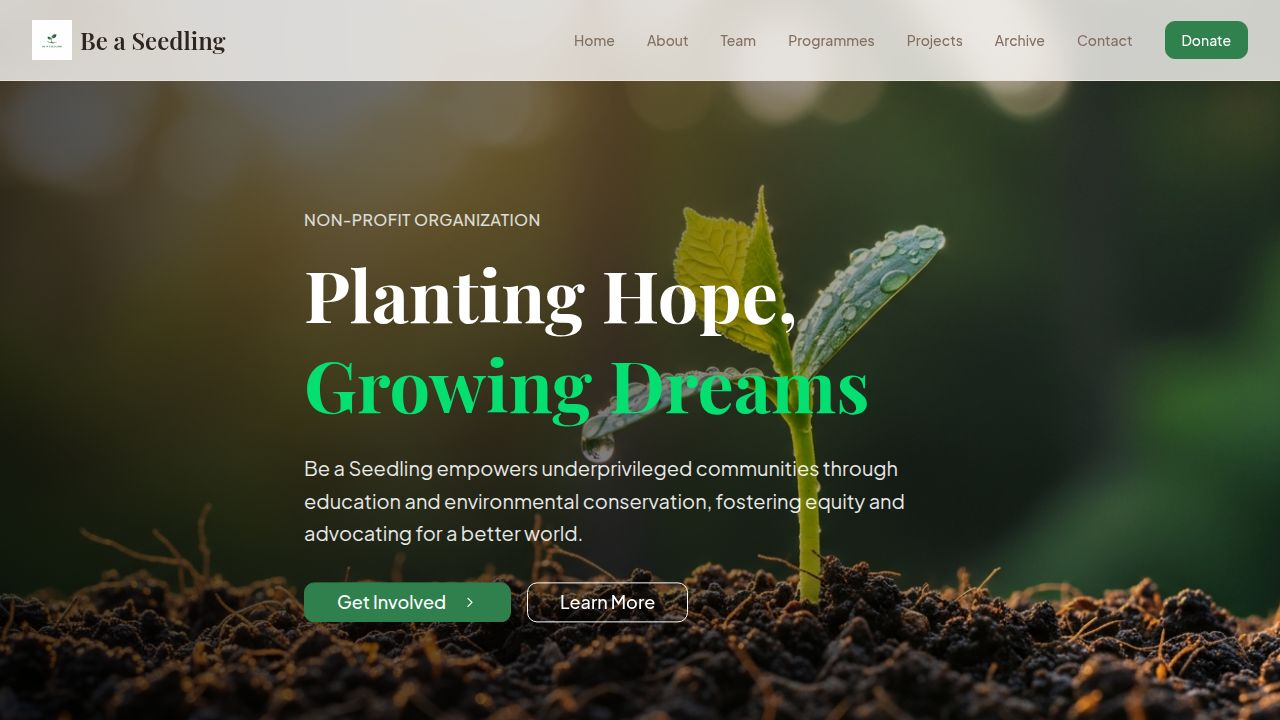
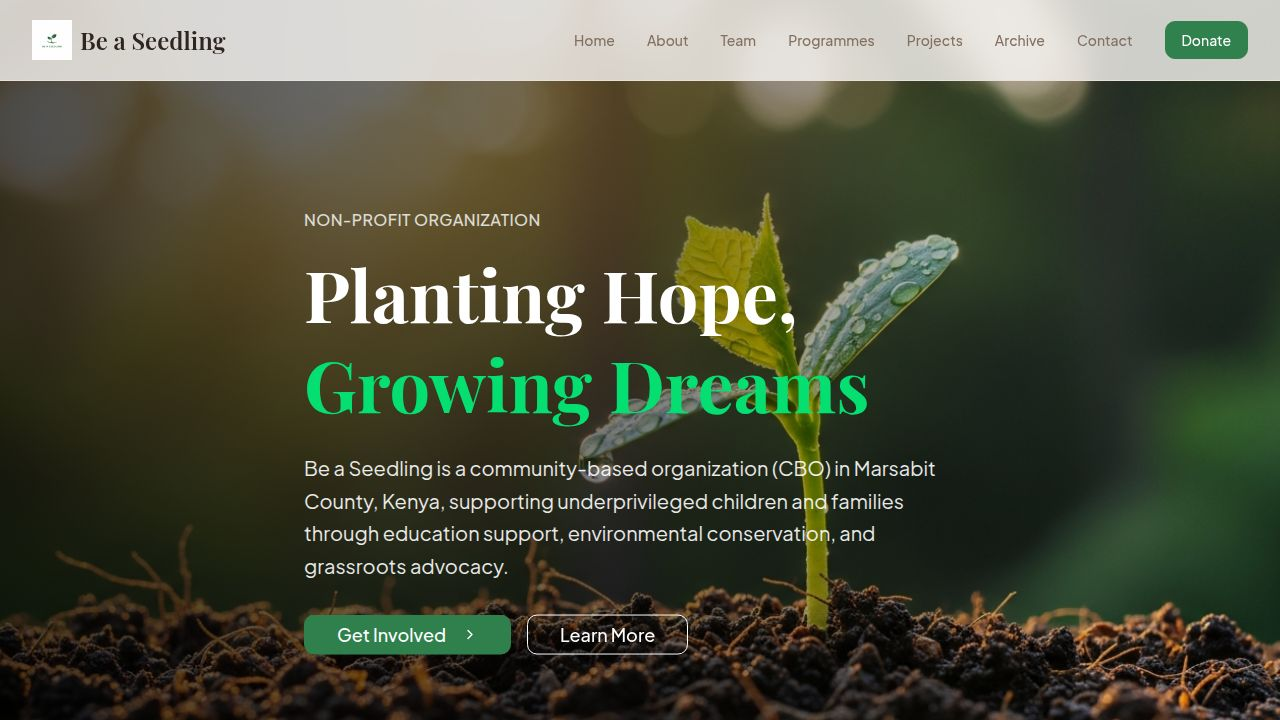
Update website content to include location-specific details and community focus
Refactor home page content in `home.tsx` to incorporate "Marsabit County, Kenya" and emphasize community-based organization (CBO) initiatives, including education support, environmental conservation, and advocacy.

Replit-Commit-Author: Agent
Replit-Commit-Session-Id: 5153b6c9-3729-4da5-a48e-af5e2d7ff3ed
Replit-Commit-Checkpoint-Type: full_checkpoint
Replit-Commit-Event-Id: 754d948b-7e0f-49d3-a099-a13a76f2ecb4
Replit-Commit-Screenshot-Url: https://storage.googleapis.com/screenshot-production-us-central1/9876d67b-0999-430b-8ccf-50bf26c267ab/5153b6c9-3729-4da5-a48e-af5e2d7ff3ed/rRP2syw
Replit-Helium-Checkpoint-Created: true

diff --git a/client/src/pages/home.tsx b/client/src/pages/home.tsx
@@ -337,8 +337,9 @@ export default function Home() {
               variants={fadeUp}
               className="text-lg md:text-xl text-white/90 mb-8 leading-relaxed"
             >
-              Be a Seedling empowers underprivileged communities through education 
-              and environmental conservation, fostering equity and advocating for a better world.
+              Be a Seedling is a community-based organization (CBO) in Marsabit County, Kenya,
+              supporting underprivileged children and families through education support,
+              environmental conservation, and grassroots advocacy.
             </motion.p>
             <motion.div variants={fadeUp} className="flex flex-wrap gap-4">
               <Dialog open={getInvolvedOpen} onOpenChange={setGetInvolvedOpen}>
@@ -449,21 +450,21 @@ export default function Home() {
                 Welcome
               </span>
               <h2 className="font-serif text-3xl md:text-4xl lg:text-5xl font-bold text-foreground mb-6 leading-tight">
-                Growing Opportunities for Underprivileged Individuals
+                Who We Are — A Community-Based Organization in Marsabit
               </h2>
               <div className="space-y-4 text-muted-foreground leading-relaxed">
                 <p>
-                  Be a Seedling is a non-profit organization that provides community-based 
-                  programming, education, capacity building, environmental conservation and 
-                  advocacy for underprivileged individuals and communities.
+                  Be a Seedling is a registered Community-Based Organization (CBO) based in Marsabit County,
+                  Northern Kenya. We partner with schools, local leaders, and pastoralist communities to help
+                  vulnerable learners stay in school through scholarships, mentorship, and essential learning materials.
                 </p>
                 <p>
-                  We believe that everyone deserves the opportunity to reach their full 
-                  potential, regardless of their circumstances. We are committed to making 
-                  a difference in the lives of those who are most in need.
+                  Alongside education support, we lead community tree planting, land restoration, and environmental
+                  conservation initiatives that protect forests and water sources. We also advocate for child protection
+                  and community wellbeing—challenging gender-based violence, early marriage, and harmful practices.
                 </p>
                 <p className="font-medium text-foreground">
-                  Together, we can make a difference.
+                  From Ngurunit to the wider Marsabit region, we plant small seeds of hope that grow into long-term change.
                 </p>
               </div>
             </motion.div>
@@ -575,8 +576,8 @@ export default function Home() {
               variants={fadeUp}
               className="text-muted-foreground max-w-2xl mx-auto"
             >
-              Changing lives one child at a time through comprehensive support, 
-              education, and environmental stewardship.
+              Education support, environmental conservation, and community advocacy programmes across Marsabit County,
+              Kenya—designed with communities and delivered for lasting impact.
             </motion.p>
           </motion.div>
 
@@ -632,9 +633,8 @@ export default function Home() {
                 Get Involved
               </h2>
               <p className="text-muted-foreground mb-8 leading-relaxed">
-                Join us in our mission to create a more just and equitable world. 
-                There are many ways to contribute, whether through volunteering, 
-                donating, or simply spreading the word about our work.
+                Support community-led development in Marsabit County. You can donate, volunteer, partner with us,
+                advocate for girls’ education and child protection, or share your experience in Community Voices.
               </p>
               
               <div className="space-y-4">
@@ -827,7 +827,7 @@ export default function Home() {
               variants={fadeUp}
               className="font-serif text-3xl md:text-4xl lg:text-5xl font-bold text-foreground mb-4"
             >
-              Projects
+              Projects in Marsabit County
             </motion.h2>
           </motion.div>
 
